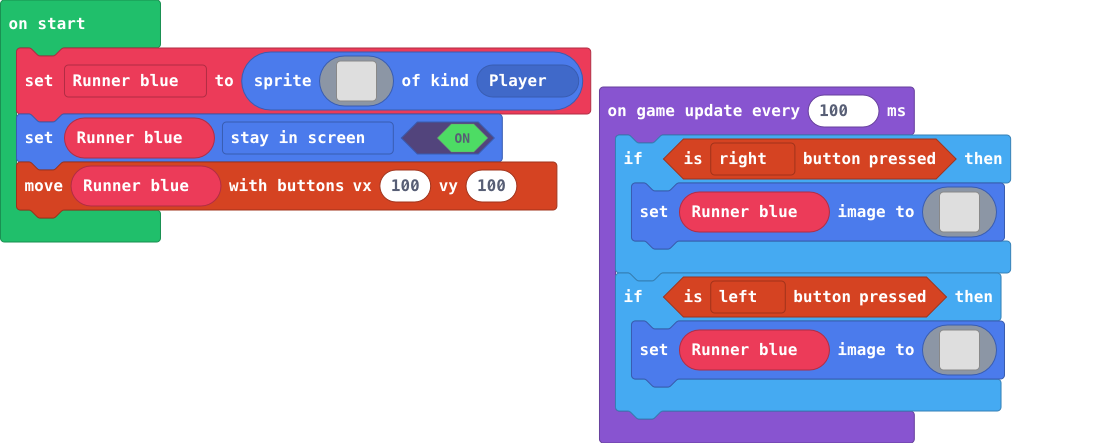
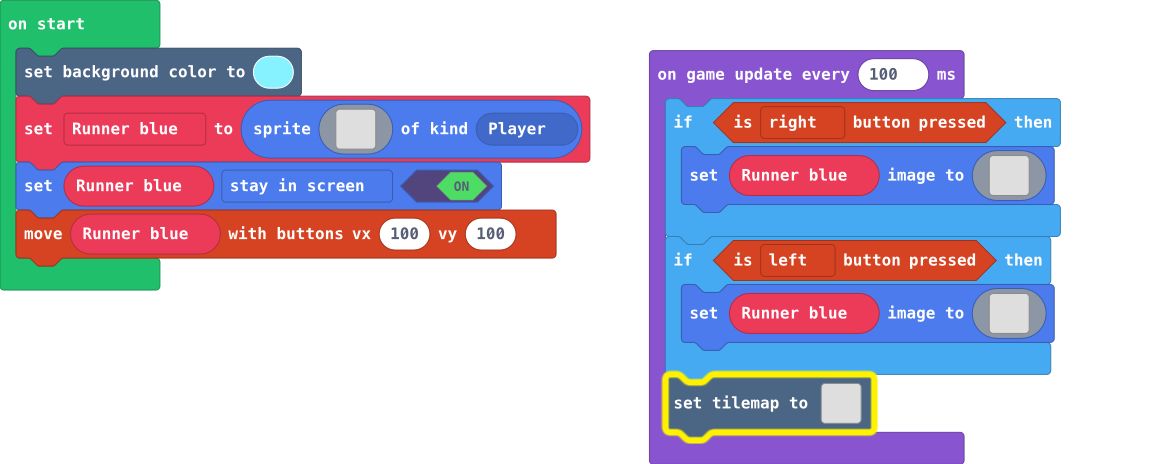
Update main.blocks, main.ts, tilemap.g.jres, tilemap.g.ts

diff --git a/main.ts b/main.ts
@@ -3,6 +3,7 @@ enum ActionKind {
     Idle,
     Jumping
 }
+scene.setBackgroundColor(9)
 let Runner_blue = sprites.create(img`
     . . . f f f f f . . . . . 
     . f f f f f f f f f . . . 
@@ -64,4 +65,22 @@ game.onUpdateInterval(100, function () {
             . . . f f f . . . f f . . 
             `)
     }
+    tiles.setTilemap(tiles.createTilemap(hex`1000100000000000000000000000000000000000000000000000000000000000000000000000000000000000000000000000000000000000000000000000000000000000000000000000000000000000000000000000000000000000000000000000000000000000000000000000000000000000000000000000000000000000000000000000000000000000000000000000000000000000000000000000000000000000000000000000000000000000000000000000000000000000000000000000000000000000000000000000000000000000000000000000000000000000000000000000000000000000000000000000000000000000000000000000000000000000`, img`
+        . . . . . . . . . . . . . . . . 
+        . . . . . . . . . . . . . . . . 
+        . . . . . . . . . . . . . . . . 
+        . . . . . . . . . . . . . . . . 
+        . . . . . . . . . . . . . . . . 
+        . . . . . . . . . . . . . . . . 
+        . . . . . . . . . . . . . . . . 
+        . . . . . . . . . . . . . . . . 
+        . . . . . . . . . . . . . . . . 
+        . . . . . . . . . . . . . . . . 
+        . . . . . . . . . . . . . . . . 
+        . . . . . . . . . . . . . . . . 
+        . . . . . . . . . . . . . . . . 
+        . . . . . . . . . . . . . . . . 
+        . . . . . . . . . . . . . . . . 
+        . . . . . . . . . . . . . . . . 
+        `, [myTiles.transparency16], TileScale.Sixteen))
 })

diff --git a/tilemap.g.ts b/tilemap.g.ts
@@ -2,6 +2,14 @@
 namespace myTiles {
     //% fixedInstance jres blockIdentity=images._tile
     export const transparency16 = image.ofBuffer(hex``);
+    //% fixedInstance jres blockIdentity=images._tile
+    export const tile1 = image.ofBuffer(hex``);
+    //% fixedInstance jres blockIdentity=images._tile
+    export const tile2 = image.ofBuffer(hex``);
+    //% fixedInstance jres blockIdentity=images._tile
+    export const tile3 = image.ofBuffer(hex``);
+    //% fixedInstance jres blockIdentity=images._tile
+    export const tile4 = image.ofBuffer(hex``);
 
 }
 // Auto-generated code. Do not edit.
